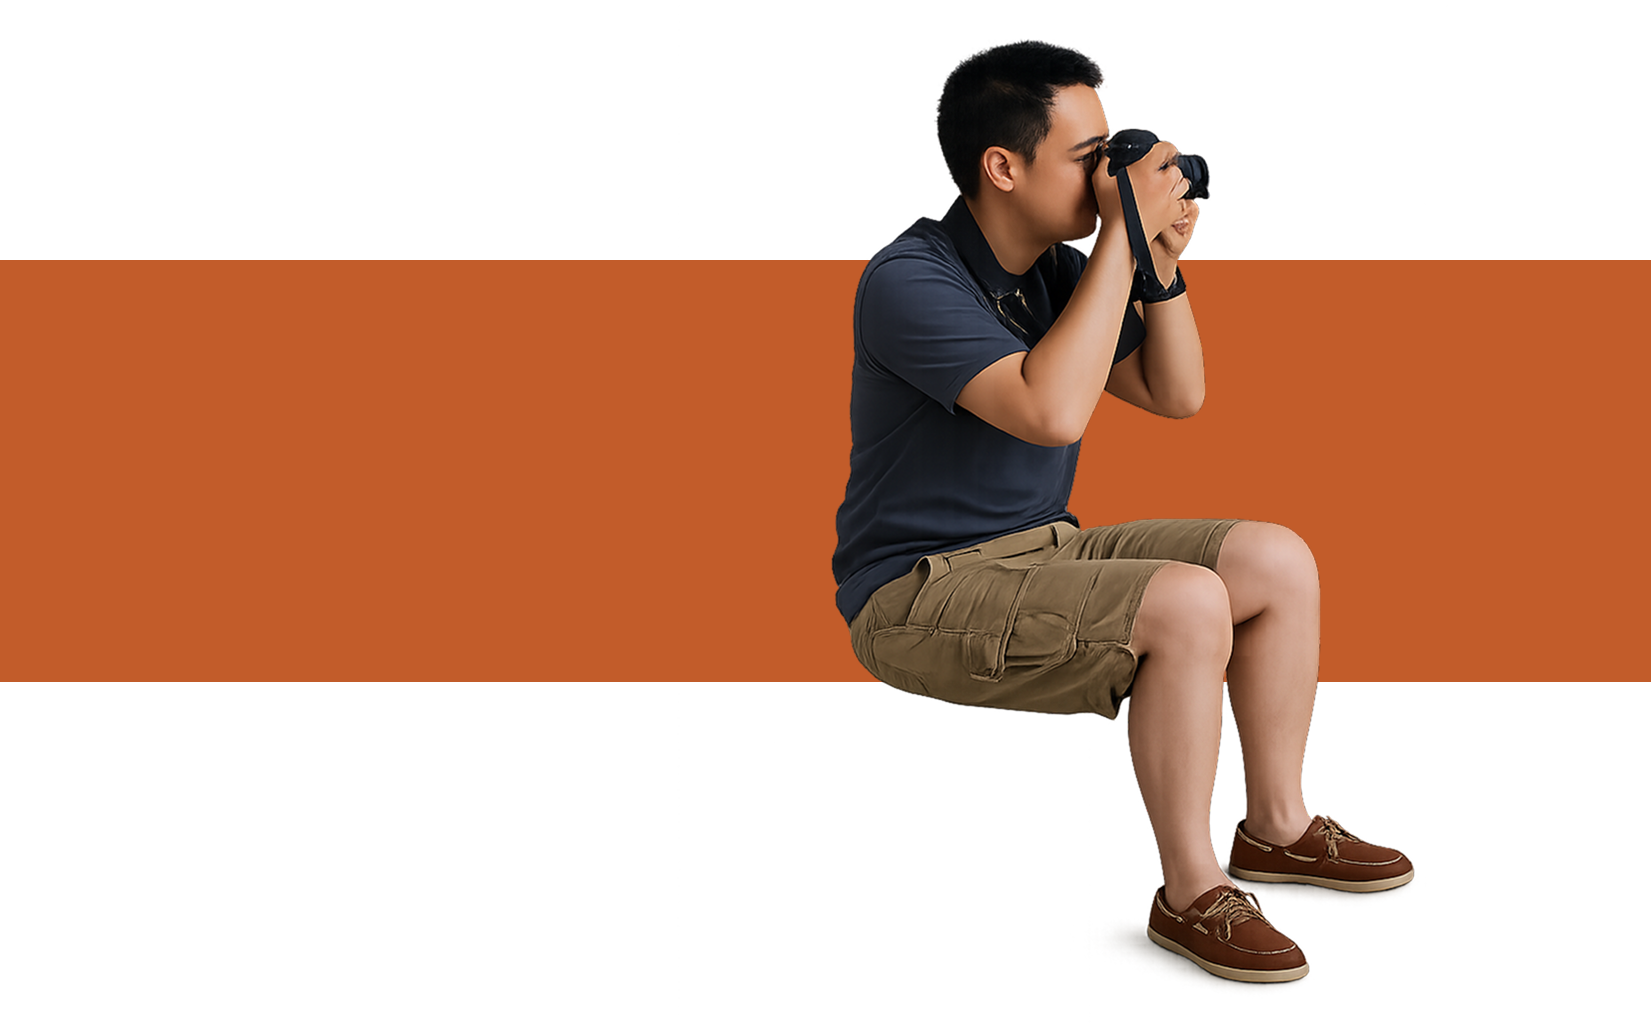
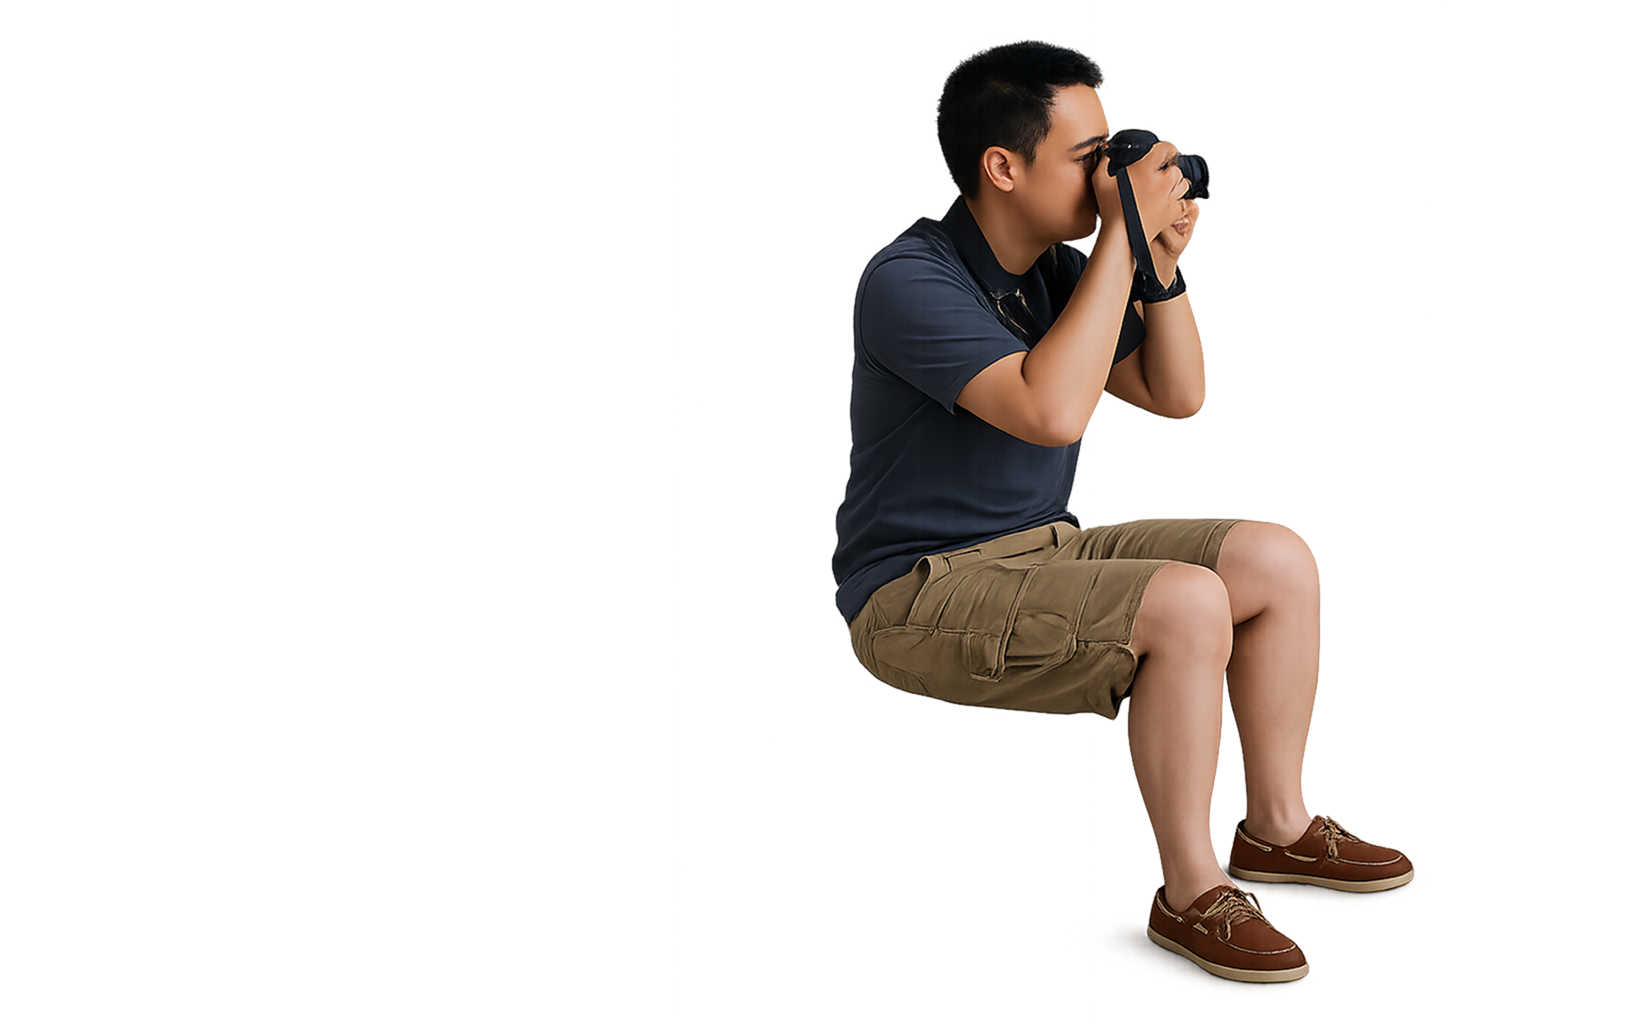
add field-report transition

diff --git a/assets/js/index.js b/assets/js/index.js
@@ -90,10 +90,13 @@ if (!window.matchMedia('(prefers-reduced-motion: reduce)').matches) {
 //  - Cards marked data-transition="reveal" (Doc Buddy): the cover image slides
 //    out right and the page fades away around the shape; the case study then
 //    opens through a circle growing from the shape's centre.
+//  - Cards marked data-transition="split" (Field Report): the cover image slides
+//    out left while the rest of the card slides out right; the case study is
+//    then uncovered by the homepage background sliding away to the left.
 //  - Employee Manager (feature card): see playFeature() below.
 (function () {
   const reduceMotion = window.matchMedia('(prefers-reduced-motion: reduce)');
-  const cards = document.querySelectorAll('.work-card');
+  const cards = document.querySelectorAll('.work-card, .archive-card');
   let layer = null;
   let running = false;
 
@@ -122,9 +125,10 @@ if (!window.matchMedia('(prefers-reduced-motion: reduce)').matches) {
     window.location.href = card.href;
   }
 
+  const players = { drive: play, reveal: playReveal, split: playSplit };
   cards.forEach((card) => {
     const type = card.dataset.transition;
-    if (type !== 'drive' && type !== 'reveal') return;
+    if (!players[type]) return;
     const shape = card.querySelector('.thumb-shape');
     const img = shape && shape.nextElementSibling;
     if (!img) return;
@@ -132,7 +136,7 @@ if (!window.matchMedia('(prefers-reduced-motion: reduce)').matches) {
     card.addEventListener('click', (e) => {
       if (!shouldAnimate(e)) return;
       e.preventDefault();
-      (type === 'drive' ? play : playReveal)(card, shape, img);
+      players[type](card, shape, img);
     });
   });
 
@@ -261,6 +265,61 @@ if (!window.matchMedia('(prefers-reduced-motion: reduce)').matches) {
       .then(() => navigate(card, color, { bg, reveal }));
   }
 
+  // Field Report: the cover image (the man) slides out left while the rest of
+  // the card, shape included, slides out right — same duration and easing, so
+  // both leave the viewport together. Meanwhile the page fades to its
+  // background; the case study is then uncovered by that background sliding
+  // away left (see .pt-wipe in case-study.css).
+  function playSplit(card, shape, img) {
+    running = true;
+    const vw = window.innerWidth;
+    const c = card.getBoundingClientRect(); // includes the hover lift, so no jump
+    const i = img.getBoundingClientRect();
+    const bg = getComputedStyle(document.body).backgroundColor;
+    const ease = 'cubic-bezier(0.55, 0, 0.8, 0.2)'; // ease-in: accelerate away
+
+    layer = document.createElement('div');
+    layer.className = 'pt-layer';
+    layer.setAttribute('aria-hidden', 'true');
+
+    const fade = document.createElement('div');
+    fade.className = 'pt-fade';
+    fade.style.background = bg;
+
+    // The card travels as a copy above the fade; its own image stays behind
+    const cardCopy = card.cloneNode(true);
+    cardCopy.removeAttribute('href');
+    cardCopy.classList.add('pt-card');
+    Object.assign(cardCopy.style, {
+      left: c.left + 'px', top: c.top + 'px',
+      width: c.width + 'px', height: c.height + 'px',
+    });
+    cardCopy.querySelector('.thumb-shape + img').style.visibility = 'hidden';
+
+    const cover = img.cloneNode();
+    cover.removeAttribute('loading');
+    cover.className = 'pt-cover';
+    Object.assign(cover.style, {
+      left: i.left + 'px', top: i.top + 'px',
+      width: i.width + 'px', height: i.height + 'px',
+    });
+
+    layer.append(fade, cardCopy, cover);
+    document.body.appendChild(layer);
+    card.classList.add('pt-hidden');
+
+    const timing = { duration: 700, easing: ease, fill: 'forwards' };
+    const anims = [
+      cover.animate([{ transform: `translateX(${-(i.right + 40)}px)` }], timing),
+      cardCopy.animate([{ transform: `translateX(${vw - c.left + 40}px)` }], timing),
+      fade.animate(
+        [{ opacity: 0 }, { opacity: 1 }],
+        { duration: 400, delay: 250, easing: 'ease-out', fill: 'both' }
+      ),
+    ];
+    Promise.all(anims.map((a) => a.finished)).then(() => navigate(card, bg, { wipe: true }));
+  }
+
   // Employee Manager: the card slides out right. The two cards below either
   // drop away one after the other (two-column desktop grid) or, when the grid
   // is a single column, slide out left one after the other. The page then fades
@@ -327,7 +386,8 @@ if (!window.matchMedia('(prefers-reduced-motion: reduce)').matches) {
     layer.remove();
     layer = null;
     running = false;
-    document.querySelectorAll('.pt-source').forEach((c) => c.classList.remove('pt-source'));
+    document.querySelectorAll('.pt-source, .pt-hidden')
+      .forEach((c) => c.classList.remove('pt-source', 'pt-hidden'));
     document.documentElement.classList.remove('pt-leaving');
     cards.forEach((c) => c.getAnimations().forEach((a) => a.cancel()));
   });

diff --git a/assets/css/index.css b/assets/css/index.css
@@ -457,19 +457,29 @@ nav.site-nav.scrolled {
 .archive-card.overflow-img .thumb img { position: relative; z-index: 1; }
 
 /* thumb-shape: coloured backdrop shape drawn in CSS behind a transparent cutout.
-   Position/size are % of the thumb box (= the image box), measured from the
-   source artwork, so the shape scales with the card. Set per project below. */
+   Position/size are % of the image box, measured from the source artwork, so
+   the shape scales with the card. Circles by default; set --shape-h (and
+   --shape-radius: 0) for a rectangle. Set per project below.
+   The image box is the thumb itself, or a .thumb-art wrapper where the thumb
+   is a fixed frame the image overflows (archive cards). */
 .thumb-shape {
   position: absolute;
   left: var(--shape-x);
   top: var(--shape-y);
   width: var(--shape-w);
-  aspect-ratio: 1;
+  height: var(--shape-h, auto);
+  aspect-ratio: 1; /* ignored once --shape-h sets a height */
   border-radius: var(--shape-radius, 50%);
   background: var(--shape-color);
   pointer-events: none;
 }
 .thumb-shape + img { position: relative; z-index: 1; }
+.thumb-art {
+  position: relative;
+  z-index: 1; /* overflowing art stays above the card text */
+  width: 100%;
+  align-self: start;
+}
 
 /* driver-cover.png 1435×1037: circle Ø935 at (342, 46) */
 .thumb--driver {
@@ -484,6 +494,16 @@ nav.site-nav.scrolled {
   --shape-x: 28.50%;
   --shape-y: 4.44%;
   --shape-w: 65.78%;
+}
+
+/* fieldreport-cover.png 1651×1024: full-width band, y 260–681 (422 tall) */
+.thumb--fieldreport {
+  --shape-color: #C25C2A; /* field-report case study --accent (terracotta) */
+  --shape-x: 0%;
+  --shape-y: 25.39%;
+  --shape-w: 100%;
+  --shape-h: 41.21%;
+  --shape-radius: 0;
 }
 /* Hover: car edges forward (left) as if about to pull away.
    The click transition clones the car from its hovered position, so it
@@ -516,6 +536,9 @@ nav.site-nav.scrolled {
 /* Cards sliding off-screen mustn't add a horizontal scrollbar mid-transition */
 html.pt-leaving { overflow-x: hidden; } /* on html only: body would become a scroller */
 html.pt-leaving .work-card { pointer-events: none; }
+/* A whole card copied into the layer: no card transitions, no layout margins */
+.pt-card { position: absolute; margin: 0; transition: none; will-change: transform; }
+.pt-hidden { visibility: hidden; }
 /* Hide the originals while their clones animate */
 .pt-source .thumb-shape,
 .pt-source .thumb-shape + img { visibility: hidden; }

diff --git a/work/field-report/index.html b/work/field-report/index.html
@@ -4,6 +4,27 @@
   <meta charset="UTF-8">
   <meta name="viewport" content="width=device-width, initial-scale=1.0">
   <title>Field Report — Chia Lin</title>
+  <script>
+    // Page transition: arriving from the homepage card animation → start
+    // covered by the homepage background, which slides away to the left
+    // (see .pt-enter.pt-wipe in case-study.css). Runs before first paint.
+    (function () {
+      try {
+        var d = JSON.parse(sessionStorage.getItem('pt-enter'));
+        sessionStorage.removeItem('pt-enter');
+        if (!d || Date.now() - d.t > 5000) return;
+        var root = document.documentElement;
+        root.style.setProperty('--pt-color', d.color);
+        root.classList.add('pt-enter');
+        if (d.wipe) root.classList.add('pt-wipe');
+        document.addEventListener('animationend', function (e) {
+          if (e.animationName === 'pt-wipe' || e.animationName === 'pt-reveal') {
+            root.classList.remove('pt-enter', 'pt-wipe');
+          }
+        });
+      } catch (_) {}
+    })();
+  </script>
 
   <link rel="preconnect" href="https://fonts.googleapis.com">
   <link rel="preconnect" href="https://fonts.gstatic.com" crossorigin>

diff --git a/index.html b/index.html
@@ -118,9 +118,12 @@
 
     <!-- Archive — older work, lighter visual weight -->
     <div class="archive-label reveal">From the archive</div>
-    <a class="archive-card overflow-img reveal" data-delay="1" href="work/field-report/index.html" aria-label="Field Report — iOS IDEO case study">
-      <div class="thumb">
-        <img src="assets/images/home/fieldreport-cover.png" alt="Field Report preview" loading="lazy">
+    <a class="archive-card overflow-img reveal" data-delay="1" data-transition="split" href="work/field-report/index.html" aria-label="Field Report — iOS IDEO case study">
+      <div class="thumb thumb--fieldreport">
+        <div class="thumb-art">
+          <span class="thumb-shape" aria-hidden="true"></span>
+          <img src="assets/images/home/fieldreport-cover.png" alt="Field Report preview" loading="lazy">
+        </div>
       </div>
       <div class="body">
         <span class="tag">iOS · Early career · IDEO</span>

diff --git a/assets/css/case-study.css b/assets/css/case-study.css
@@ -32,8 +32,16 @@ html.pt-enter body::after {
 @keyframes pt-reveal {
   to { opacity: 0; visibility: hidden; }
 }
+/* Wipe variant: instead of fading, the cover slides away to the left */
+html.pt-enter.pt-wipe body::after {
+  animation: pt-wipe 700ms cubic-bezier(0.65, 0, 0.35, 1) 50ms forwards;
+}
+@keyframes pt-wipe {
+  to { transform: translateX(-100%); visibility: hidden; }
+}
 @media (prefers-reduced-motion: reduce) {
-  html.pt-enter body::after { animation-duration: 1ms; animation-delay: 0s; }
+  html.pt-enter body::after,
+  html.pt-enter.pt-wipe body::after { animation-duration: 1ms; animation-delay: 0s; }
 }
 
 
